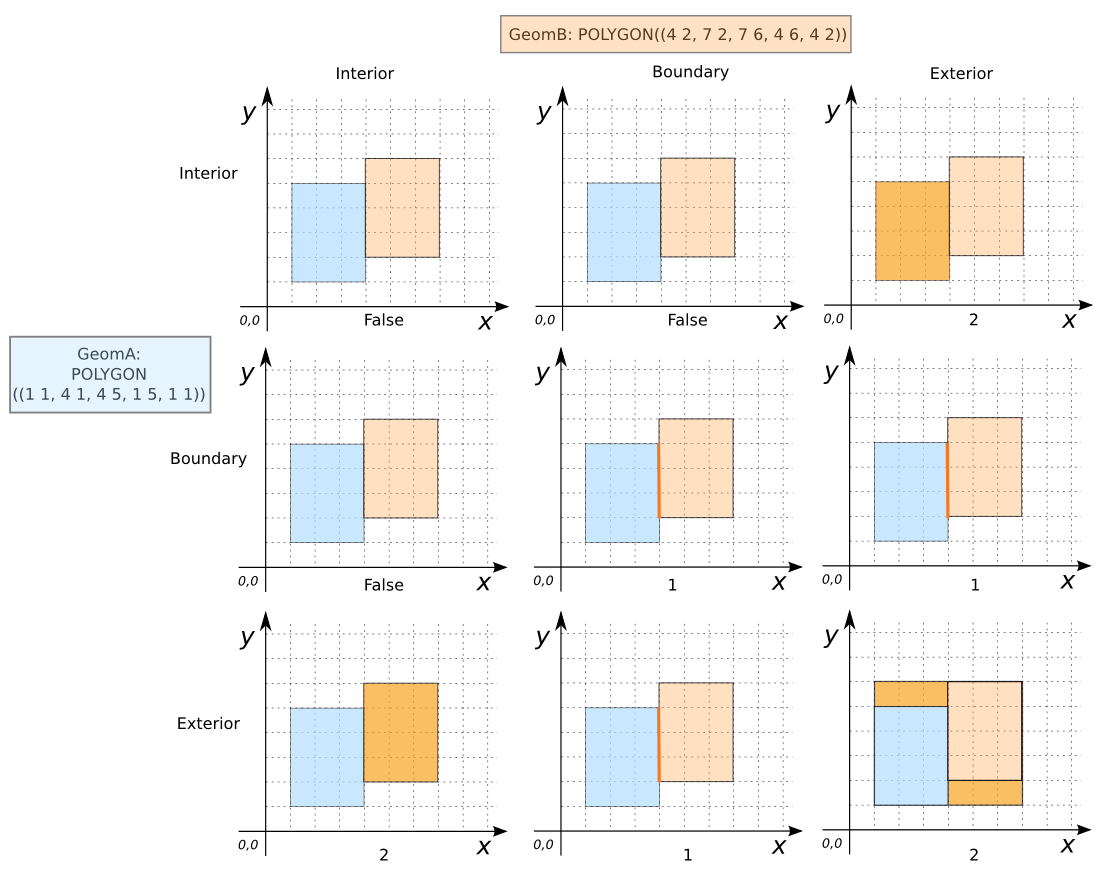
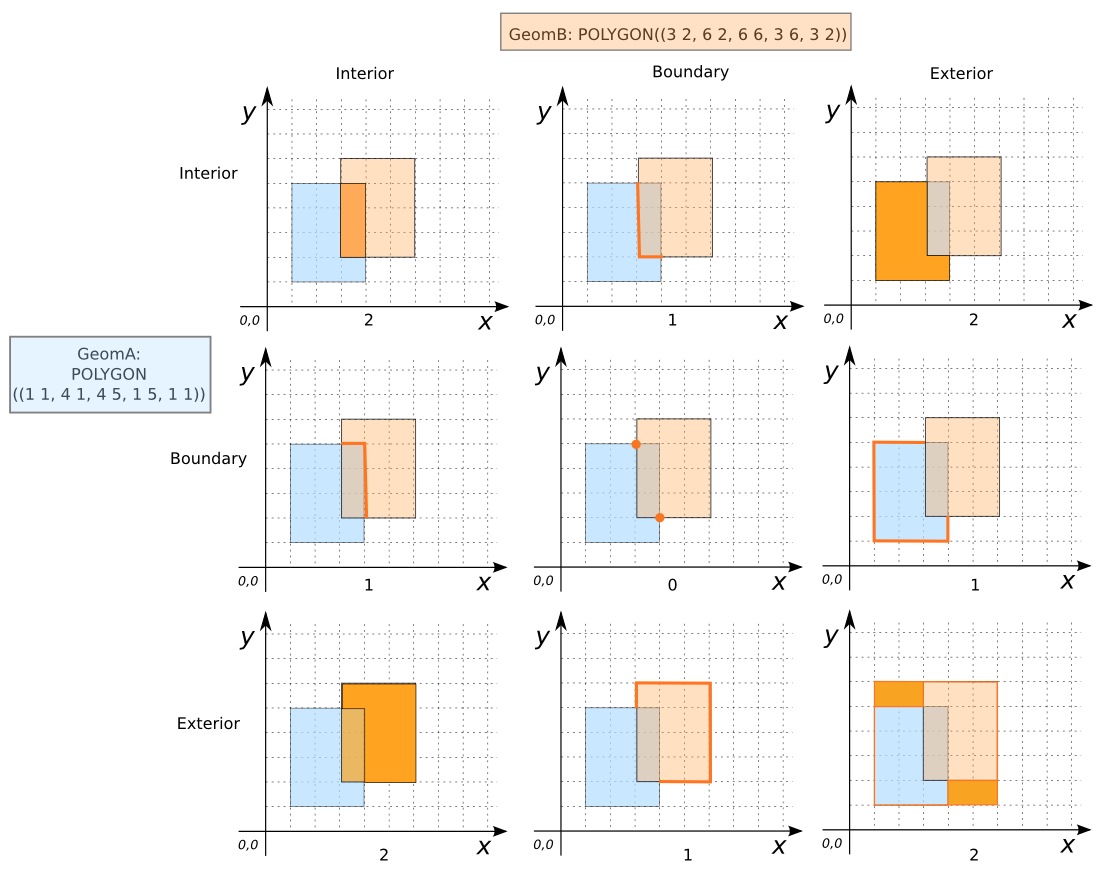
Update description and images for ST_Relate

diff --git a/docs/dev/ST_Relate.md b/docs/dev/ST_Relate.md
@@ -18,11 +18,10 @@ boolean ST_Relate(GEOMETRY GeomA, GEOMETRY geomB, varchar iMatrix);
 ### Description
 
 Computes the relation between two Geometries, as described in the SFS specification. It can be used in two ways: 
-* First, if it is given two `GEOMETRIES`, it returns a `9-character string representation` of the 2 Geometries IntersectionMatrix (DE-9IM). 
-* If it is given two `GEOMETRIES` and a IntersectionMatrix representation, returns true if the two Geometries' IntersectionMatrix match the given one, false otherwise.
+* First, if only two Geometries are given, it returns a `9-character string representation` that refers to the corresponding IntersectionMatrix (DE-9IM). 
+* Secondly, if two Geometries and an `IntersectionMatrix` representation are given, it returns true if the computed IntersectionMatrix representation match with the given one. If no match, false is returned.
 
-<div class="note"><p>you can see <a href="http://en.wikipedia.org/wiki/DE-9IM">this documentation about
-	DE9-IM</a> for more explanation</p></div>
+<div class="note"><p>See <a href="http://en.wikipedia.org/wiki/DE-9IM">here</a> for more information about the DE9-IM.</p></div>
 
 {% include type-warning.html type='GEOMETRYCOLLECTION' %}
 
@@ -40,12 +39,12 @@ SELECT ST_Relate('LINESTRING(1 2, 3 4)',
 
 {% highlight mysql %}
 SELECT ST_Relate('POLYGON((1 1, 4 1, 4 5, 1 5, 1 1))', 
-                 'POLYGON((3 2, 6 2, 6 6, 3 6, 3 2))');
--- Answer: 212101212
-
-SELECT ST_Relate('POLYGON((1 1, 4 1, 4 5, 1 5, 1 1))', 
                  'POLYGON((4 2, 7 2, 7 6, 4 6, 4 2))');
 -- Answer: FF2F11212
+
+SELECT ST_Relate('POLYGON((1 1, 4 1, 4 5, 1 5, 1 1))', 
+                 'POLYGON((3 2, 6 2, 6 6, 3 6, 3 2))');
+-- Answer: 212101212
 {% endhighlight %}
 
 <img class="displayed" src="../ST_Relate_2.png"/>
@@ -64,4 +63,8 @@ SELECT ST_Relate('POLYGON((1 1, 4 1, 4 5, 1 5, 1 1))',
 
 ##### See also
 
+* [`ST_Contains`](../ST_Contains), [`ST_Covers`](../ST_Covers),[`ST_CoveredBy`](../ST_CoveredBy),[`ST_Crosses`](../ST_Crosses),   [`ST_Disjoint`](../ST_Disjoint),
+[`ST_Equals`](../ST_Equals),[`ST_Intersect`](../ST_Intersect),
+[`ST_Overlaps`](../ST_Overlaps),[`ST_Touches`](../ST_Touches),
+[`ST_Within`](../ST_Within),
 * <a href="https://github.com/irstv/H2GIS/blob/master/h2spatial/src/main/java/org/h2gis/h2spatial/internal/function/spatial/predicates/ST_Relate.java" target="_blank">Source code</a>
